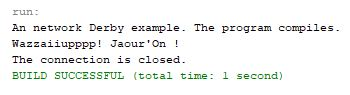
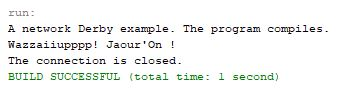
update

diff --git a/README.md b/README.md
@@ -183,7 +183,7 @@ public class JavaToDatabaseConnect {
 
     public static void main(String[] args) {
     
-        System.out.println("An network Derby driver example. The program compiles.");          
+        System.out.println("A network Derby driver example. The program compiles.");          
         ...    	
 	}
 }  
@@ -258,7 +258,7 @@ import java.sql.SQLException;
 public class JavaToDatabaseConnect {
     
     public static void main(String[] args) {
-        System.out.println("An embedded Derby example. The program compiles.");
+        System.out.println("A network Derby example. The program compiles.");
         
         Connection connection = null; 
         String url = "jdbc:derby://localhost:1527/Ocean";        
@@ -266,7 +266,7 @@ public class JavaToDatabaseConnect {
         String password = "a-password"; 
 
         try {   
-            connection = DriverManager.getConnection( url, user, password);
+            connection = DriverManager.getConnection(url, user, password);
             System.out.println("Wazzaiiupppp! Jaour'On !");
         } catch(Exception e) {
             e.printStackTrace();
